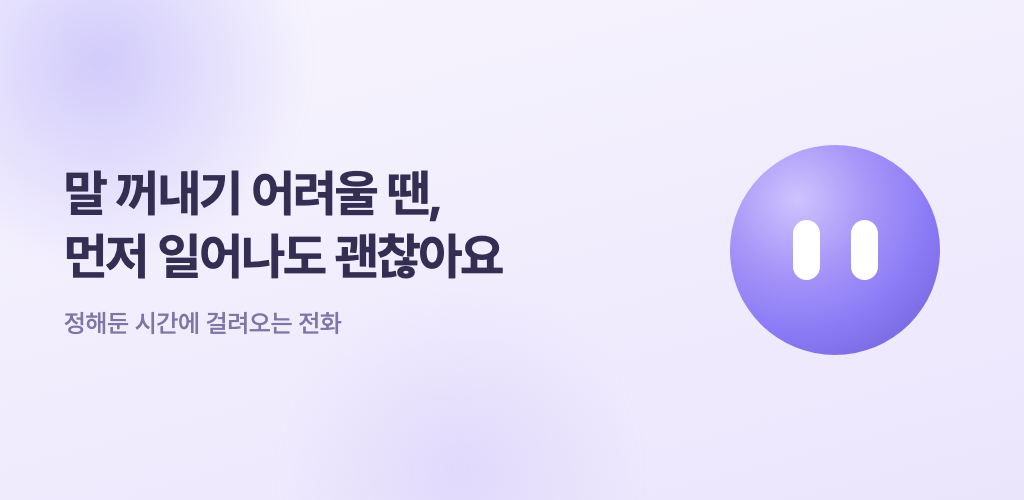
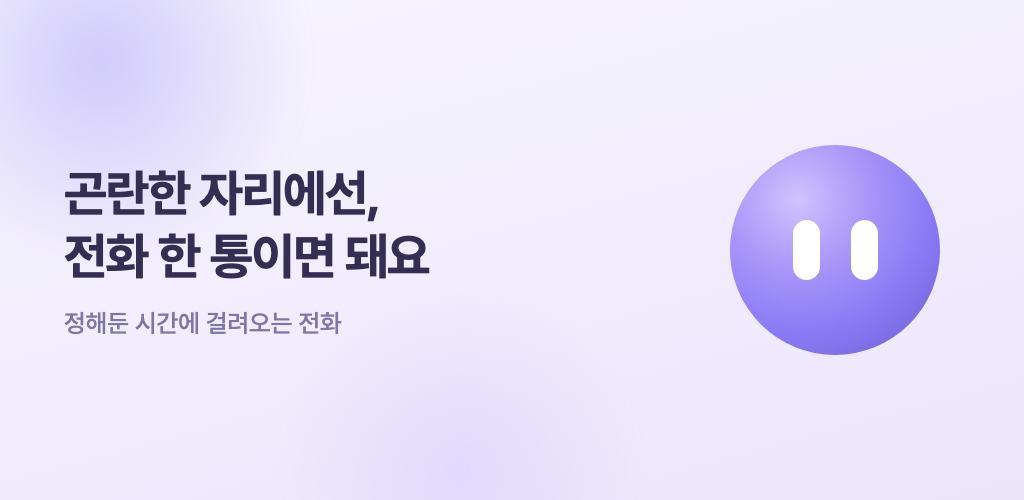
feat: 캐치프라이즈 교체 + 스토어 렌더의 폰트 경합 수정
"말 꺼내기 어려울 땐, / 먼저 일어나도 괜찮아요" → "곤란한 자리에선,
/ 전화 한 통이면 돼요".

두 가지가 어색했다. 21자로 슬로건이라기엔 길었고(토스 "금융이 쉬워진다"
9자, 오늘의집 "누구나 예쁜집에 살 수 있어" 14자), "일어나다" 가 자리를
뜨는 것과 기상하는 것 둘로 읽혔다 — 홈 화면에는 '자리' 라는 맥락이 없어
더 헷갈린다. "전화 한 통" 으로 수단을 명시하고 중의성을 없앴다.

국내 스토어의 가짜전화 앱은 대부분 "장난/프랭크" 프레임이라(가짜 전화:
장난 소리, 가짜 전화 - 장난 친구, 수신 시뮬레이터) 이 앱의 "곤란한
자리에서 빠져나온다" 프레임 자체가 차별점이다. 캐치프라이즈가 그쪽을
가리키게 뒀다.

렌더 버그도 함께 고친다. 피처 그래픽의 글자가 통째로 비어 나왔는데,
@font-face 기본값이 폰트를 기다리며 글자를 숨기고(FOIT) 헤드리스 캡처가
그 사이에 찍혀서였다. 스크린샷들은 큰 PNG 를 불러오느라 우연히 폰트를
기다렸을 뿐 같은 위험을 안고 있었다. font-display:swap 과
--virtual-time-budget 으로 양쪽을 막는다.

Claude-Session: https://claude.ai/code/session_01Xd13e87dZ3qLH2mDkvbXYi

Changed region(s): [[0.0625, 0.33, 0.5, 0.57]]

diff --git a/store/play/src/_base.css b/store/play/src/_base.css
@@ -1,8 +1,10 @@
-@font-face { font-family:'Pretendard'; font-weight:700;
+/* font-display:swap — 기본값은 폰트를 기다리며 글자를 숨긴다(FOIT).
+   헤드리스 캡처가 그 사이에 찍히면 텍스트가 통째로 빈다. */
+@font-face { font-family:'Pretendard'; font-weight:700; font-display:swap;
   src:url('../../../assets/fonts/Pretendard-Bold.otf') format('opentype'); }
-@font-face { font-family:'Pretendard'; font-weight:600;
+@font-face { font-family:'Pretendard'; font-weight:600; font-display:swap;
   src:url('../../../assets/fonts/Pretendard-SemiBold.otf') format('opentype'); }
-@font-face { font-family:'Pretendard'; font-weight:500;
+@font-face { font-family:'Pretendard'; font-weight:500; font-display:swap;
   src:url('../../../assets/fonts/Pretendard-Medium.otf') format('opentype'); }
 
 html,body { margin:0; padding:0; overflow:hidden;

diff --git a/lib/features/home/presentation/home_tab.dart b/lib/features/home/presentation/home_tab.dart
@@ -125,7 +125,7 @@ class _HomeTabState extends ConsumerState<HomeTab> {
                 children: [
                   const SizedBox(height: 16),
                   const Text(
-                    '말 꺼내기 어려울 땐,',
+                    '곤란한 자리에선,',
                     textAlign: TextAlign.center,
                     style: TextStyle(
                       color: AppColors.textSecondary,
@@ -135,7 +135,7 @@ class _HomeTabState extends ConsumerState<HomeTab> {
                   ),
                   const SizedBox(height: 6),
                   const Text(
-                    '먼저 일어나도 괜찮아요',
+                    '전화 한 통이면 돼요',
                     textAlign: TextAlign.center,
                     style: TextStyle(
                       color: AppColors.textPrimary,

diff --git a/store/play/src/build.py b/store/play/src/build.py
@@ -94,7 +94,7 @@ FEATURE_HTML = f"""<!doctype html><html><head><meta charset="utf-8">
 <div class="blob a"></div><div class="blob b"></div>
 <div class="wrap">
   <div class="copy">
-    <h1>말 꺼내기 어려울 땐,<br>먼저 일어나도 괜찮아요</h1>
+    <h1>곤란한 자리에선,<br>전화 한 통이면 돼요</h1>
     <p>정해둔 시간에 걸려오는 전화</p>
   </div>
   <div class="art">
@@ -113,6 +113,10 @@ def render(html: str, name: str, w: int, h: int) -> Path:
          "--force-device-scale-factor=1",
          # 로컬 폰트/이미지를 file:// 로 읽어야 한다
          "--allow-file-access-from-files",
+         # 가상 시간을 미리 돌려 폰트/이미지 로딩이 끝난 뒤 캡처한다.
+         # 없으면 이미지가 없는 페이지(피처 그래픽)가 폰트보다 먼저 찍혀
+         # 글자가 빈 채로 나온다.
+         "--virtual-time-budget=4000",
          f"--screenshot={out}", f"--window-size={w},{h}",
          f"file://{page}"],
         capture_output=True, check=False,

diff --git a/docs/DESIGN_V3.md b/docs/DESIGN_V3.md
@@ -35,7 +35,7 @@ class SoftOrb extends StatefulWidget {
 
 ## 홈 탭 — 심플 구성 (레퍼런스 구도 그대로)
 위→아래:
-1. 캐치프라이즈: "말 꺼내기 어려울 땐," (작게) / "먼저 일어나도 괜찮아요" (크게, textPrimary, 중앙 정렬)
+1. 캐치프라이즈: "곤란한 자리에선," (작게) / "전화 한 통이면 돼요" (크게, textPrimary, 중앙 정렬)
 2. 중앙 대형 SoftOrb(size 200~220, 얼굴 있음) — 화면의 주인공.
 3. 하단 2x2 빠른 시나리오 칩 (흰 pill 카드 + 아이콘 + 짧은 라벨, 부드러운 그림자):
    - "👩 엄마가 불러요" → caller=mom, scenario=come_home
